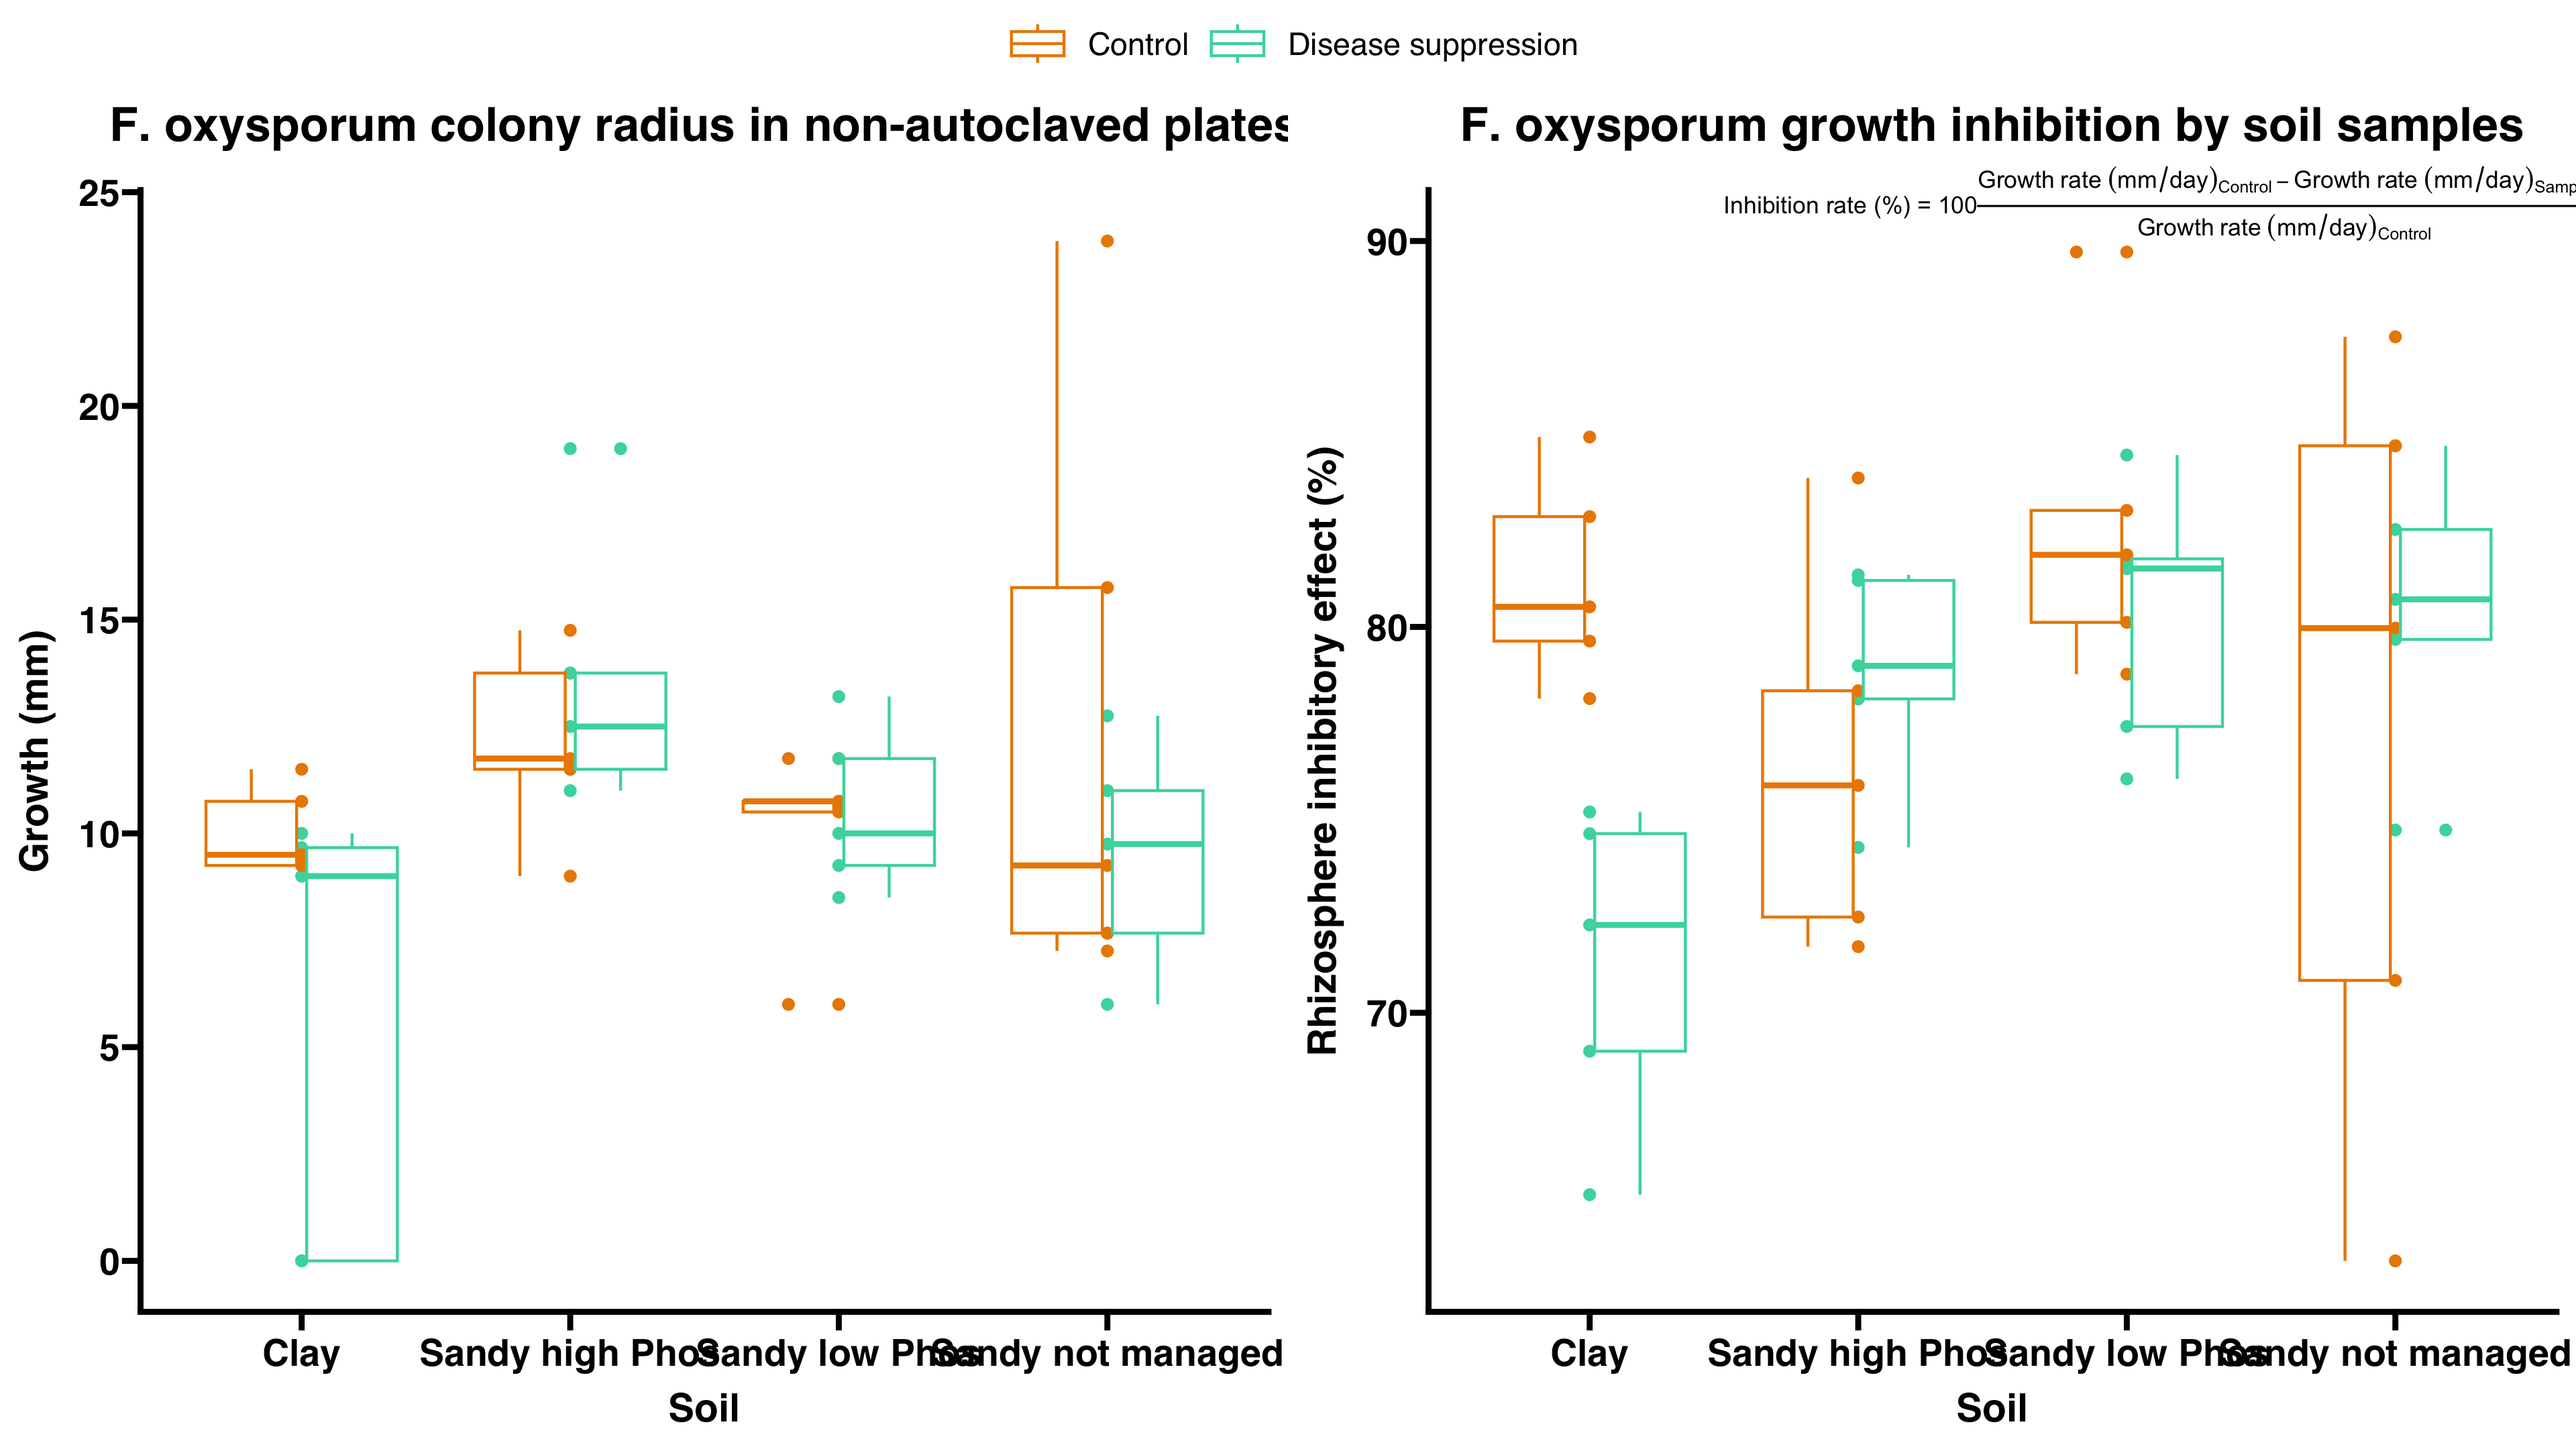
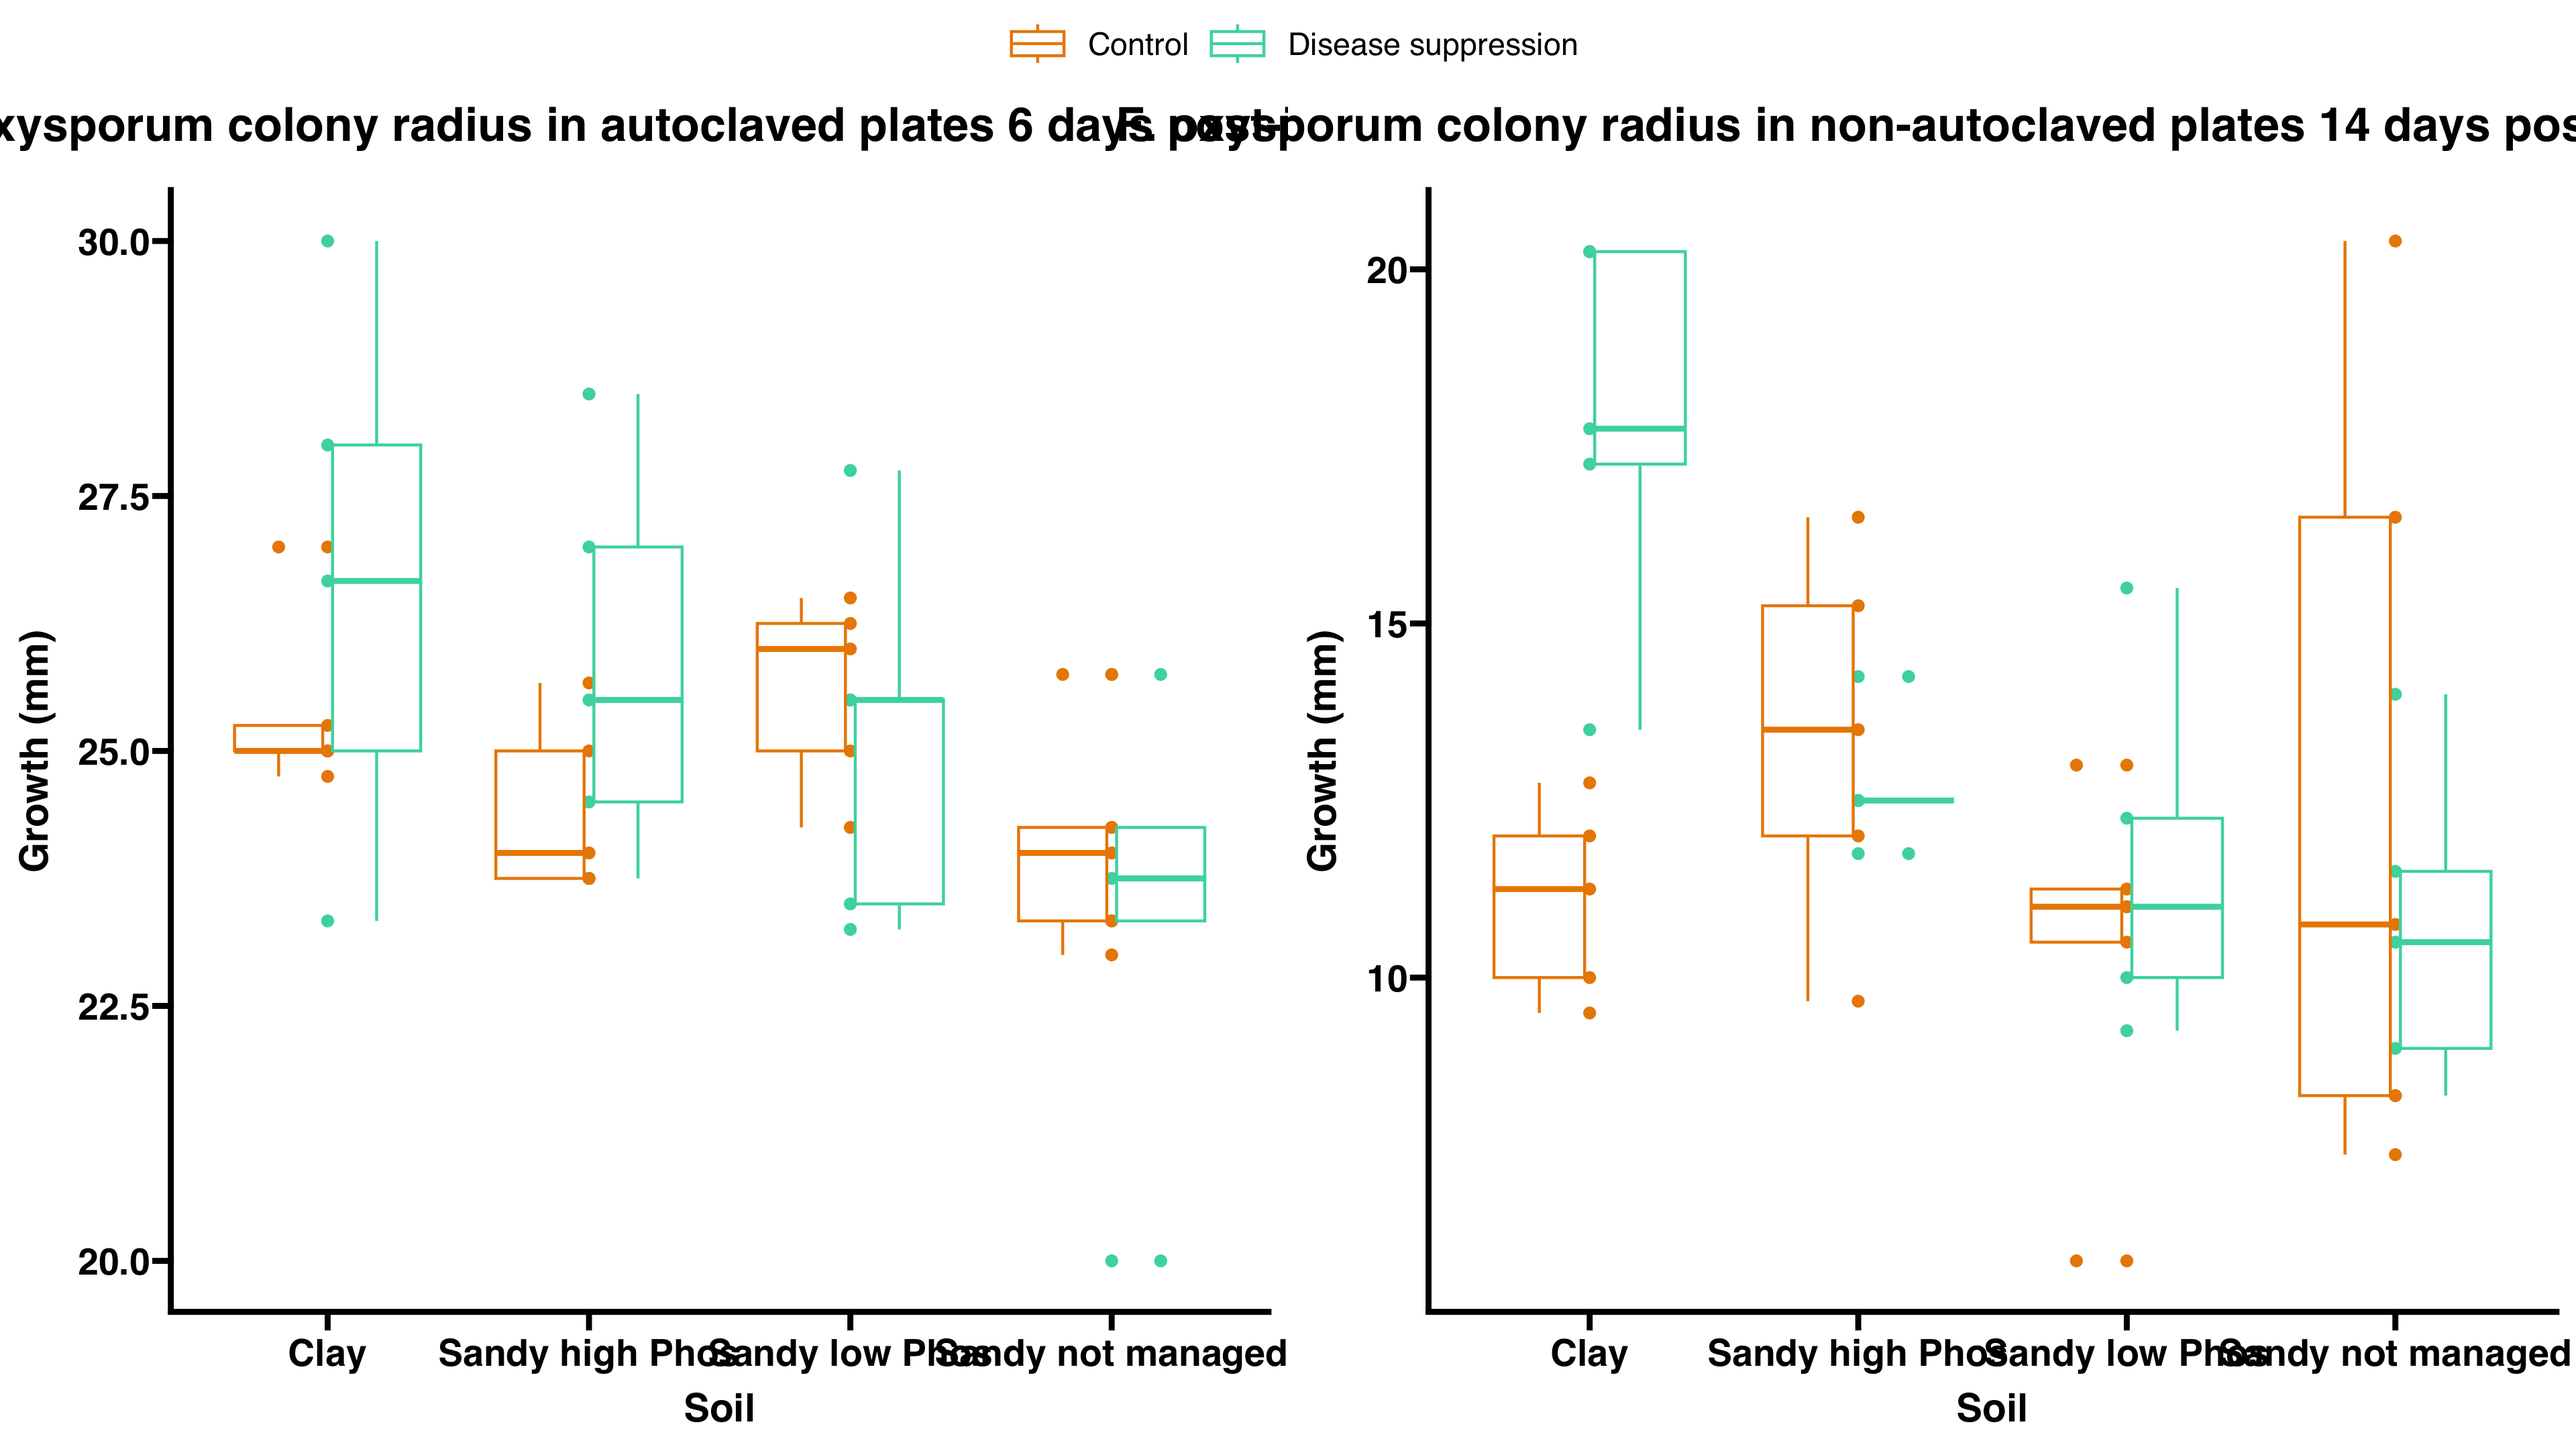
Minor changes to improve readibility

diff --git a/pathogen_growth_inhibition.md b/pathogen_growth_inhibition.md
@@ -1,7 +1,7 @@
 Microresp pipeline
 ================
 David Rodrigo Cajas
-2025-08-20
+2026-02-25
 
 - [0) Data import](#0-data-import)
   - [0.1) Working directory and
@@ -303,9 +303,10 @@ Some calculations will be done to further process the data:
 - Fungal growth rate:
   $Growth~rate~(mm/day) = \frac{colony~radius~(mm)}{time~(days)}$
 
-- Inhibition rate (based on [Kamaruzzaman et
-  al. 2021](https://www.sciencedirect.com/science/article/pii/S1878535221003051)):
-  $Inhibition~rate~(\%) = \frac{Growth~rate~(mm/day)_{Control} - Growth~rate~(mm/day)_{Sample}}{Growth~rate~(mm/day)_{Control}} \times 100$
+- Inhibition rate (based on [Sarven MS et
+  al. 2020](https://www.mdpi.com/2076-0817/9/3/213). doi
+  10.3390/pathogens9030213):
+  $Inhibition~rate~(\%) = \frac{Growth~rate~(mm/day)_{Sterile} - Growth~rate~(mm/day)_{Sample}}{Growth~rate~(mm/day)_{Sterile}} \times 100$
 
 ``` r
 # Calculate growth rates
@@ -396,14 +397,23 @@ library(plotly)
     ##     layout
 
 ``` r
-plot_fusarium_growth <- ggplot(drop_na(results,"Fusarium_growth_14dpi_B_mm")
-       , aes(x = soil, y = Fusarium_growth_6dpi_B_mm, color = treatment)) +
+plot_fusarium_growth_sterile <- ggplot(drop_na(drop_na(results,"treatment"),"Fusarium_growth_6dpi_A_sterile_mm")
+       , aes(x = soil, y = Fusarium_growth_6dpi_A_sterile_mm, color = treatment)) +
   geom_point() +
   geom_boxplot() +
   scale_color_manual(values = palette_treatments) +
   theme_prism() + 
   labs(x = "Soil", y = "Growth (mm)") +
-  ggtitle("F. oxysporum colony radius in non-autoclaved plates")
+  ggtitle("F. oxysporum colony radius in autoclaved plates 6 days post-inoculation")
+
+plot_fusarium_growth_sample <- ggplot(drop_na(results,"Fusarium_growth_14dpi_B_mm")
+       , aes(x = soil, y = Fusarium_growth_14dpi_B_mm, color = treatment)) +
+  geom_point() +
+  geom_boxplot() +
+  scale_color_manual(values = palette_treatments) +
+  theme_prism() + 
+  labs(x = "Soil", y = "Growth (mm)") +
+  ggtitle("F. oxysporum colony radius in non-autoclaved plates 14 days post-inoculation")
 
 plot_fusarium_inhibition <- ggplot(drop_na(results,"Fusarium_inhibition_rate")
        , aes(x = soil, y = Fusarium_inhibition_rate, color = treatment)) +
@@ -414,26 +424,29 @@ plot_fusarium_inhibition <- ggplot(drop_na(results,"Fusarium_inhibition_rate")
   annotate("text",
            x = 1.5, # Midpoint of the x-axis, adjust if you have more soil types
            y = 90, # Place it slightly above the max data point. Adjust this value.
-           label = expression(paste("Inhibition rate (%) = ", 100 * frac(Growth~rate~(mm/day)[Control] - Growth~rate~(mm/day)[Sample], Growth~rate~(mm/day)[Control]))),
+           label = expression(paste("Inhibition rate (%) = ", 100 * frac(Growth~rate~(mm/day)[Sterile] - Growth~rate~(mm/day)[Sample], Growth~rate~(mm/day)[Sterile]))),
            hjust = 0, # Center horizontally
            vjust = 0,   # Align the top of the text with the y-coordinate
            size = 3) +
   coord_cartesian(clip = "off") + # Allows text to go outside the standard plot area
   labs(x = "Soil", y = "Rhizosphere inhibitory effect (%)") + ggtitle("F. oxysporum growth inhibition by soil samples")
 
-ggarrange(plot_fusarium_growth,plot_fusarium_inhibition, nrow = 1, common.legend = T)
+ggarrange(plot_fusarium_growth_sterile,plot_fusarium_growth_sample, nrow = 1, common.legend = T)
 ```
-
-    ## Warning in is.na(x): is.na() applied to non-(list or vector) of type
-    ## 'expression'
 
 ![](pathogen_growth_inhibition_files/figure-gfm/unnamed-chunk-13-1.png)<!-- -->
 
 ``` r
-plot_fusarium_growth
+plot_fusarium_growth_sterile
 ```
 
 ![](pathogen_growth_inhibition_files/figure-gfm/unnamed-chunk-13-2.png)<!-- -->
+
+``` r
+plot_fusarium_growth_sample
+```
+
+![](pathogen_growth_inhibition_files/figure-gfm/unnamed-chunk-13-3.png)<!-- -->
 
 ``` r
 plot_fusarium_inhibition
@@ -442,7 +455,7 @@ plot_fusarium_inhibition
     ## Warning in is.na(x): is.na() applied to non-(list or vector) of type
     ## 'expression'
 
-![](pathogen_growth_inhibition_files/figure-gfm/unnamed-chunk-13-3.png)<!-- -->
+![](pathogen_growth_inhibition_files/figure-gfm/unnamed-chunk-13-4.png)<!-- -->
 
 ## 3) Statistics
 
